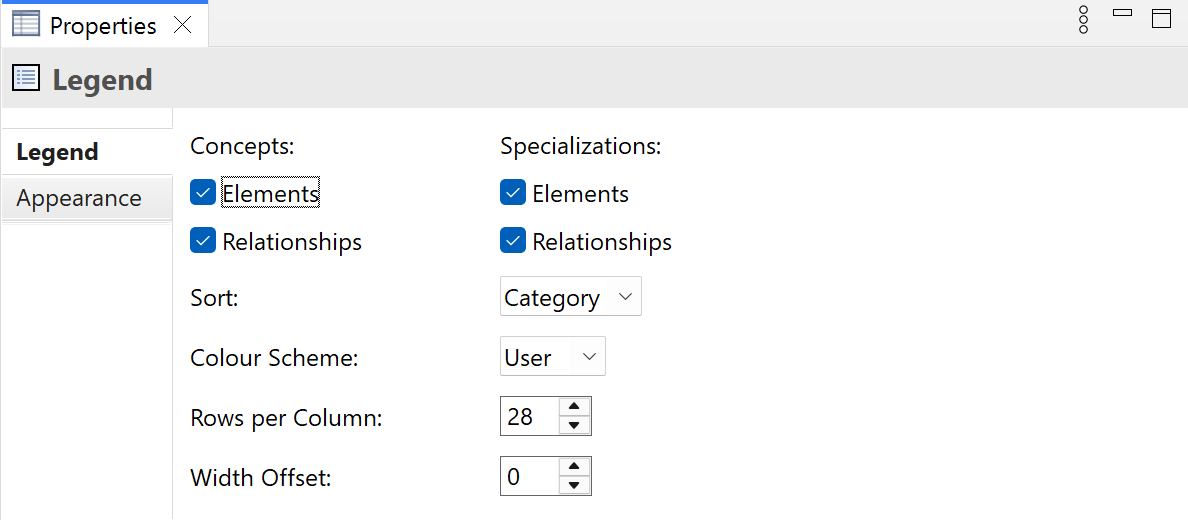
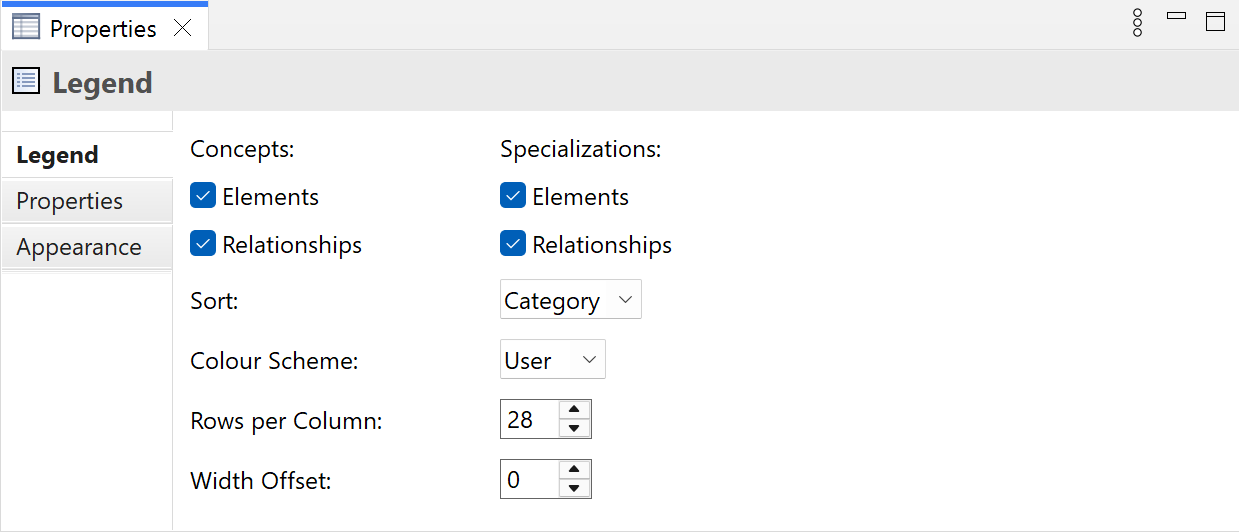
[Legend] Expose User Properties
- Could be useful

diff --git a/com.archimatetool.help/help/Text/view_legend.html b/com.archimatetool.help/help/Text/view_legend.html
@@ -25,10 +25,13 @@
     <img src="../Images/legend.png" width="690" height="343" />
     <p class="caption">A Legend in  an ArchiMate View</p>
 
+    <p>Some important points about legends:</p>
+    
     <ul>
         <li>You can set the default name for each concept displayed in a legend in <a href="prefs_diagram.html">Preferences</a>.</li>
         <li>A legend's properties can be set in the <a href="properties_legend.html">Properties Window</a>.</li>
         <li>A legend can be set to its optimal size by selecting "Default Size" from the toolbar or main "View-&gt;Position" menu item. See <a href="view_align_grid.html">Alignment Tools, Guides and the Grid</a>.</li>
+        <li>A legend figure is actually a <a href="view_note.html">Note</a> figure re-purposed as a legend figure. This means that it will appear as a blank note when opened in older versions of Archi that don't support legends. In this case, the name of the note will be "Legend".</li>
     </ul>
     
     <p>&nbsp;</p>

diff --git a/com.archimatetool.help/help/Text/properties_legend.html b/com.archimatetool.help/help/Text/properties_legend.html
@@ -18,7 +18,7 @@
     
     <p class="heading">The Legend Tab</p>
 
-    <img src="../Images/properties_legend1.png" width="594" height="260" />
+    <img src="../Images/properties_legend1.png" width="620" height="266" />
     <p class="caption">Properties for a Legend</p>
 
     <table>
@@ -50,9 +50,14 @@
     
     <br/>
 
+    <p class="heading">The Properties Tab</p>
+    <p>For more information about creating and managing User Properties see <a href="properties_user_properties.html">User Properties</a>.</p>
+
+    <br/>
+    
     <p class="heading">The Appearance Tab</p>
     
-    <img src="../Images/properties_legend2.png" width="618" height="228" />
+    <img src="../Images/properties_legend2.png" width="622" height="235" />
     <p class="caption">Appearance Properties for a Legend</p>
     
     <table>

diff --git a/com.archimatetool.editor/src/com/archimatetool/editor/ui/factory/diagram/NoteUIProvider.java b/com.archimatetool.editor/src/com/archimatetool/editor/ui/factory/diagram/NoteUIProvider.java
@@ -72,7 +72,7 @@ public class NoteUIProvider extends AbstractGraphicalObjectUIProvider {
     
     // Features to hide if this note is displaying a legend
     private final static Set<String> legendHiddenFeatures = Set.of(
-            IArchimatePackage.Literals.PROPERTIES__PROPERTIES.getName(),
+            //IArchimatePackage.Literals.PROPERTIES__PROPERTIES.getName(),
             IArchimatePackage.Literals.TEXT_CONTENT__CONTENT.getName(),
             TextRenderer.FEATURE_NAME,
             IArchimatePackage.Literals.DIAGRAM_MODEL_IMAGE_PROVIDER__IMAGE_PATH.getName(),
